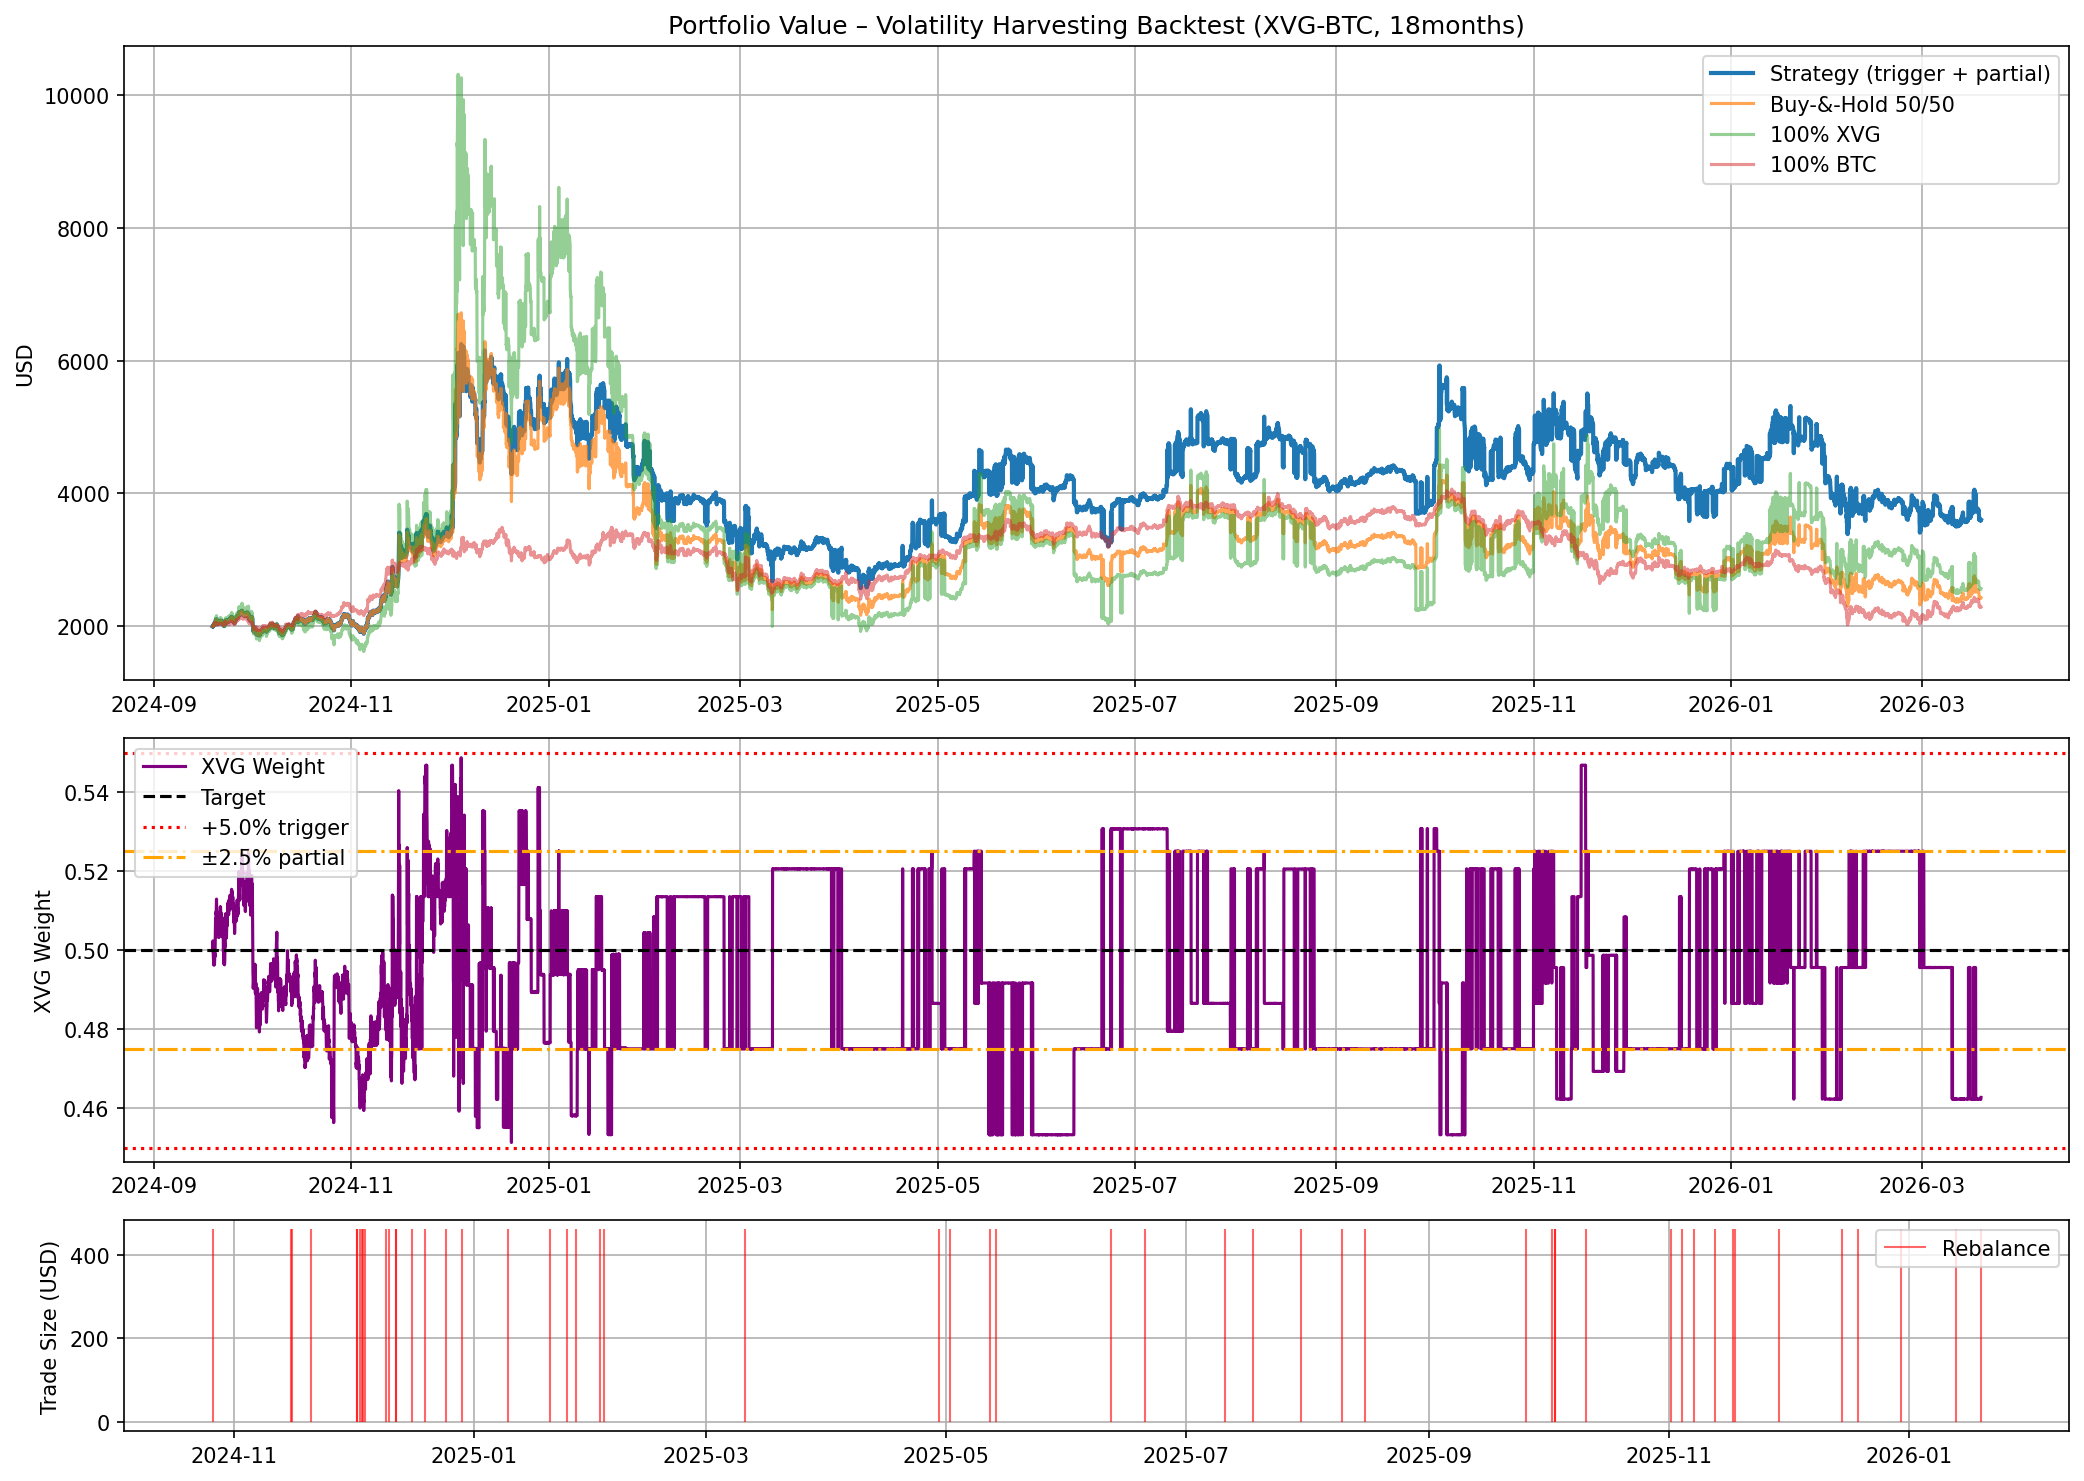
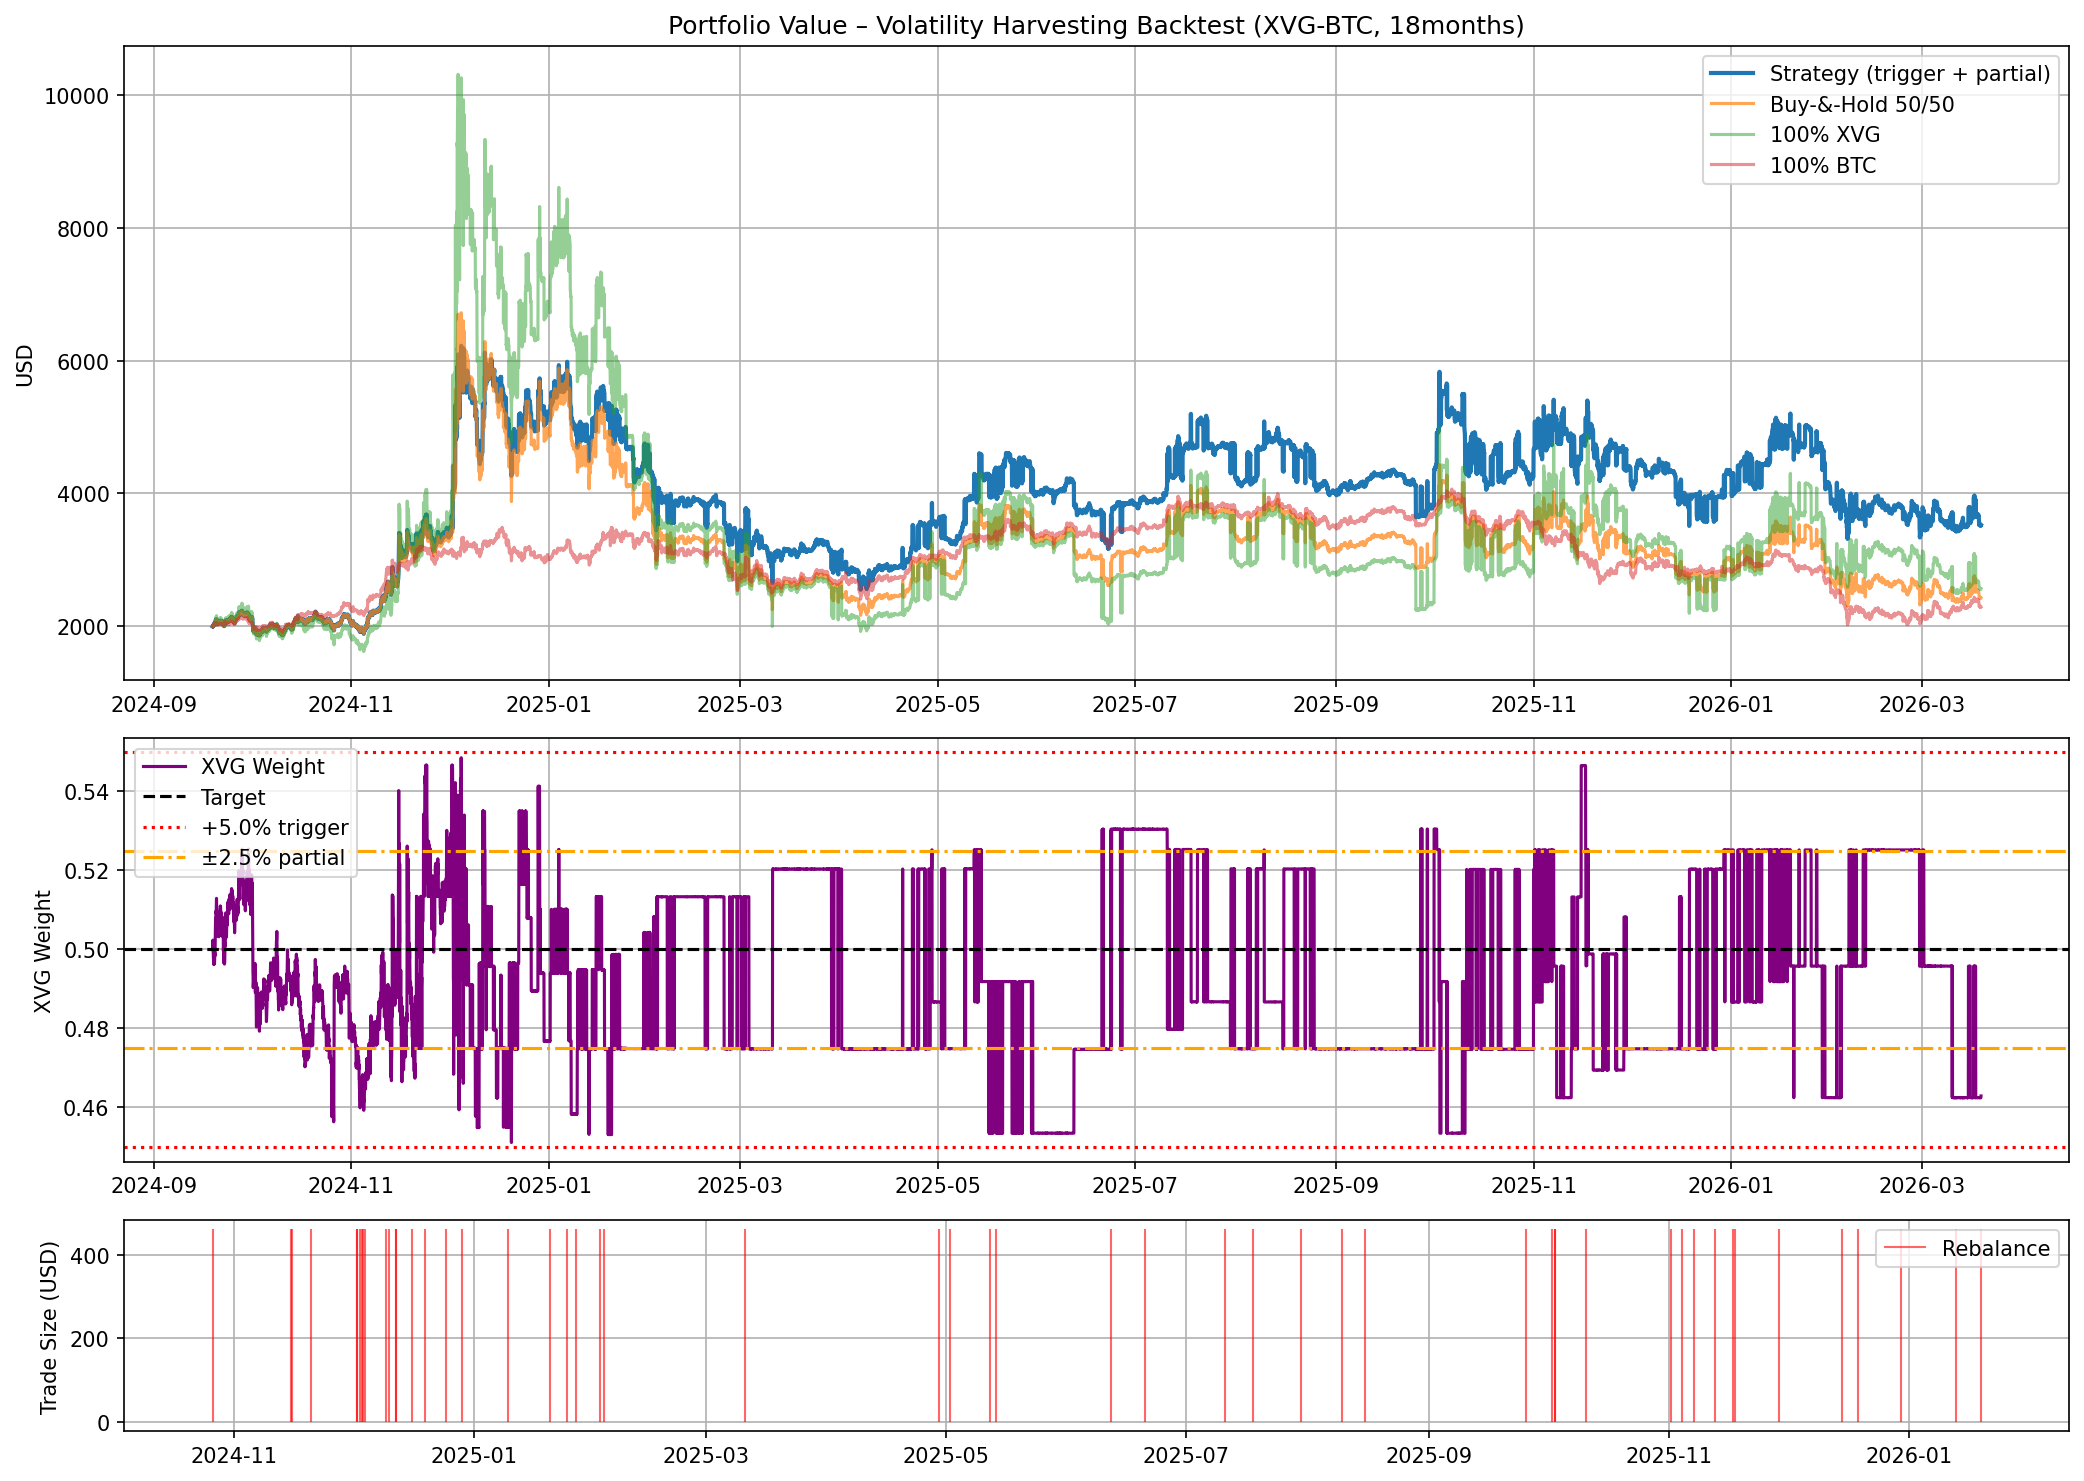
save

diff --git a/src/pcv2/backtester.py b/src/pcv2/backtester.py
@@ -5,16 +5,16 @@ from datetime import datetime
 
 # ====================== USER PARAMETERS ======================
 CSV_PATH = 'top300_hourly_18months_combined.csv'
-BACKTEST_MONTHS = 18                              # 18, 12, 6, 24, or None for full dataset
+BACKTEST_MONTHS = 18 # 18, 12, 6, 24, or None for full dataset
 
-ASSET_A = 'XVG'                                   # ← CHANGE THIS: the asset whose weight we track
-ASSET_B = 'BTC'                                   # ← CHANGE THIS: the pairing asset
-TARGET_WEIGHT_A = 0.50                            # target allocation to ASSET_A (50/50 classic)
+ASSET_A = 'XVG'
+ASSET_B = 'BTC'
+TARGET_WEIGHT_A = 0.50 # target allocation to ASSET_A (50/50 classic)
 
 OUTER_BUFFER = 0.05
 INNER_REBALANCE_DEV = 0.025
 INITIAL_CAPITAL = 2_000.0
-FEE_RATE = 0.0000
+FEE_RATE = 0.01 # assuming 1% for now
 # ============================================================
 
 # ====================== DYNAMIC OUTPUT FILENAME ======================
